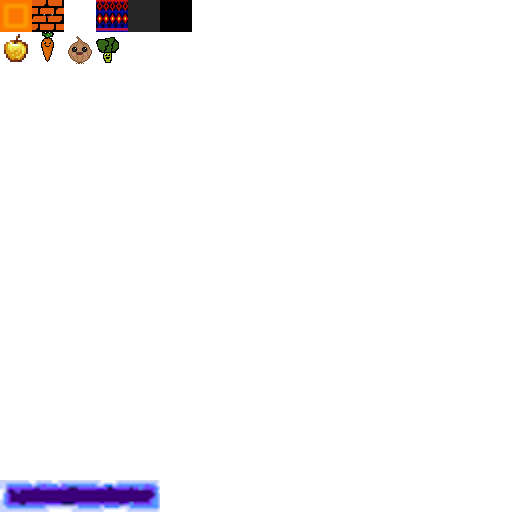
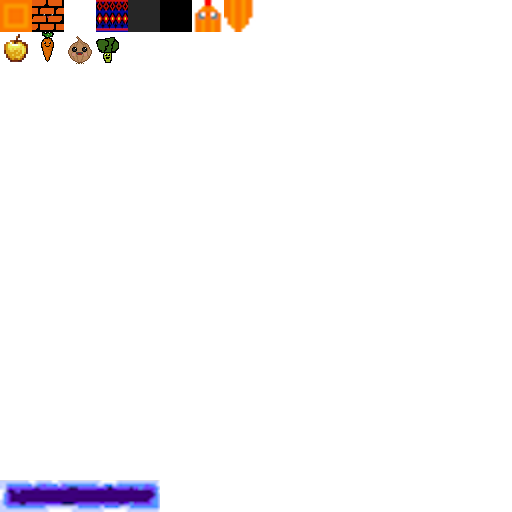
Added Missing Textures

Changed region(s): [[0.375, 0.0, 0.5, 0.0625]]

diff --git a/src/main/java/de/igelstudios/game/snake/Snake.java b/src/main/java/de/igelstudios/game/snake/Snake.java
@@ -37,8 +37,7 @@ public class Snake {
         for (int i = segments.size() - 1; i >= 0; i--) {
             if(i == 0 || (i == segments.size() - 1 && queuedSeg)){
                 if(i == segments.size() - 1 && queuedSeg){
-                    segments.add(new SnakeSegment((Vector2f) segments.get(i).getPos().clone());
-                    if(i != 0) segments.get(i).moveTo(segments.get(i - 1).getPos());
+                    segments.add(new SnakeSegment(new Vector2f(segments.get(i - 1).getPos())));
                     queuedSeg = false;
                     dirty = true;
                 }
@@ -48,6 +47,7 @@ public class Snake {
                         queued = null;
                         dirty = true;
                     }
+                    //segments.get(i).setDirection(direction);
                     segments.get(i).move(direction.move());
                 }
             }else segments.get(i).moveTo(segments.get(i - 1).getPos());
@@ -114,10 +114,16 @@ public class Snake {
         }
 
         public void add(Vector2f pos){
-            segments.add(new SnakeSegment(pos));
+            if(segments.size() == 0)segments.add(new SnakeSegment(pos,1));
+            else segments.add(new SnakeSegment(pos));
+        }
+
+        public void add(Vector2f pos,int type){
+            segments.add(new SnakeSegment(pos, type));
         }
         public Snake make(){
             if(!(segments.size() > 0))throw new IllegalArgumentException("The amount of segments in a snake has to be greater 0");
+            //segments.get(segments.size() - 1).setType(2);
             Snake snake = new Snake();
             if(dir == null)dir = Direction.RIGHT;
             snake.direction = this.dir;

diff --git a/src/main/java/de/igelstudios/game/snake/SnakeSegment.java b/src/main/java/de/igelstudios/game/snake/SnakeSegment.java
@@ -10,13 +10,41 @@ public class SnakeSegment {
     private Vector2f pos;
     private final SceneObject obj;
 
-    SnakeSegment(Vector2f pos){
+    SnakeSegment(Vector2f pos,int type){
         this.pos = pos;
         if(ClientMain.getInstance() != null){
-            obj = new SceneObject().setTex(ObjectBatch.pool.getID("test2.png")).setUv(0,0);
+            int i = switch (type) {
+                case 0 -> 0;
+                case 1 -> 6;
+                case 2 -> 7;
+                default -> throw new IllegalArgumentException("Type has to be one of 0,1,2 but is: " + type);
+            };
+            obj = new SceneObject().setTex(ObjectBatch.pool.getID("test2.png")).setUv(i,0);
             Renderer.get().render(obj, pos.x,pos.y);
         }
         else obj = new SceneObject().setPos(pos.x, pos.y);
+    }
+
+    public void setType(int type){
+        if(ClientMain.getInstance() != null){
+            int i = switch (type) {
+                case 0 -> 0;
+                case 1 -> 6;
+                case 2 -> 7;
+                default -> throw new IllegalArgumentException("Type has to be one of 0,1,2 but is: " + type);
+            };
+            obj.setUv(0,i);
+        }
+    }
+
+    public void setDirection(Direction dir){
+        if(ClientMain.getInstance() != null){
+            obj.setRotation(dir.getRot());
+        }
+    }
+
+    SnakeSegment(Vector2f pos){
+        this(pos,0);
     }
 
     public Vector2f getPos() {

diff --git a/src/main/java/de/igelstudios/game/util/ServerStarter.java b/src/main/java/de/igelstudios/game/util/ServerStarter.java
@@ -44,7 +44,7 @@ public class ServerStarter {
         try {
             File file = new File("server.bat");
             if(!file.createNewFile())throw new IOException("Could not create Server file");
-            Files.writeString(Path.of("server.bat"),"java -cp SnakeInformatik.jar de.igelstudios.ServerMain");
+            Files.writeString(Path.of("server.bat"),"java -cp libs/* de.igelstudios.ServerMain");
         } catch (IOException e) {
             throw new RuntimeException(e);
         }

diff --git a/src/main/java/de/igelstudios/game/networking/C2SLogIn.java b/src/main/java/de/igelstudios/game/networking/C2SLogIn.java
@@ -15,7 +15,8 @@ import java.util.UUID;
 public class C2SLogIn{
     public static void receive(ClientNet sender, PacketByteBuf buf) {
         Snake.Creator snake = Snake.create();
-        snake.add(new Vector2f(1.0f,1.0f));
+        snake.add(new Vector2f(2.0f,1.0f));
+        snake.add(new Vector2f(1.0f,1.0f),2);
         ServerInit.getManager().addSnake(sender.getUUID(),snake.make());
         Map.getInstance().update2C(sender.getUUID());
         try {

diff --git a/src/main/java/de/igelstudios/game/Main.java b/src/main/java/de/igelstudios/game/Main.java
@@ -53,7 +53,8 @@ public class Main implements EngineInitializer,ClientConnectListener{
     @Override
     public void onInitialize() {
         ServerStarter.create();
-        ObjectBatch.pool.getID("test2.png");
+        System.out.println(ObjectBatch.pool.get("test2.png").getID());
+        System.out.println(ObjectBatch.pool.get("test.png").getID());
         Common.init();
         //new MainMenu();
         manager = new GameManager();

diff --git a/src/main/java/de/igelstudios/game/snake/Direction.java b/src/main/java/de/igelstudios/game/snake/Direction.java
@@ -27,4 +27,13 @@ public enum Direction {
         }
         return vec;
     }
+
+    public int getRot(){
+        return switch (this) {
+            case UP -> 0;
+            case LEFT -> 1;
+            case DOWN -> 2;
+            case RIGHT -> 3;
+        };
+    }
 }
